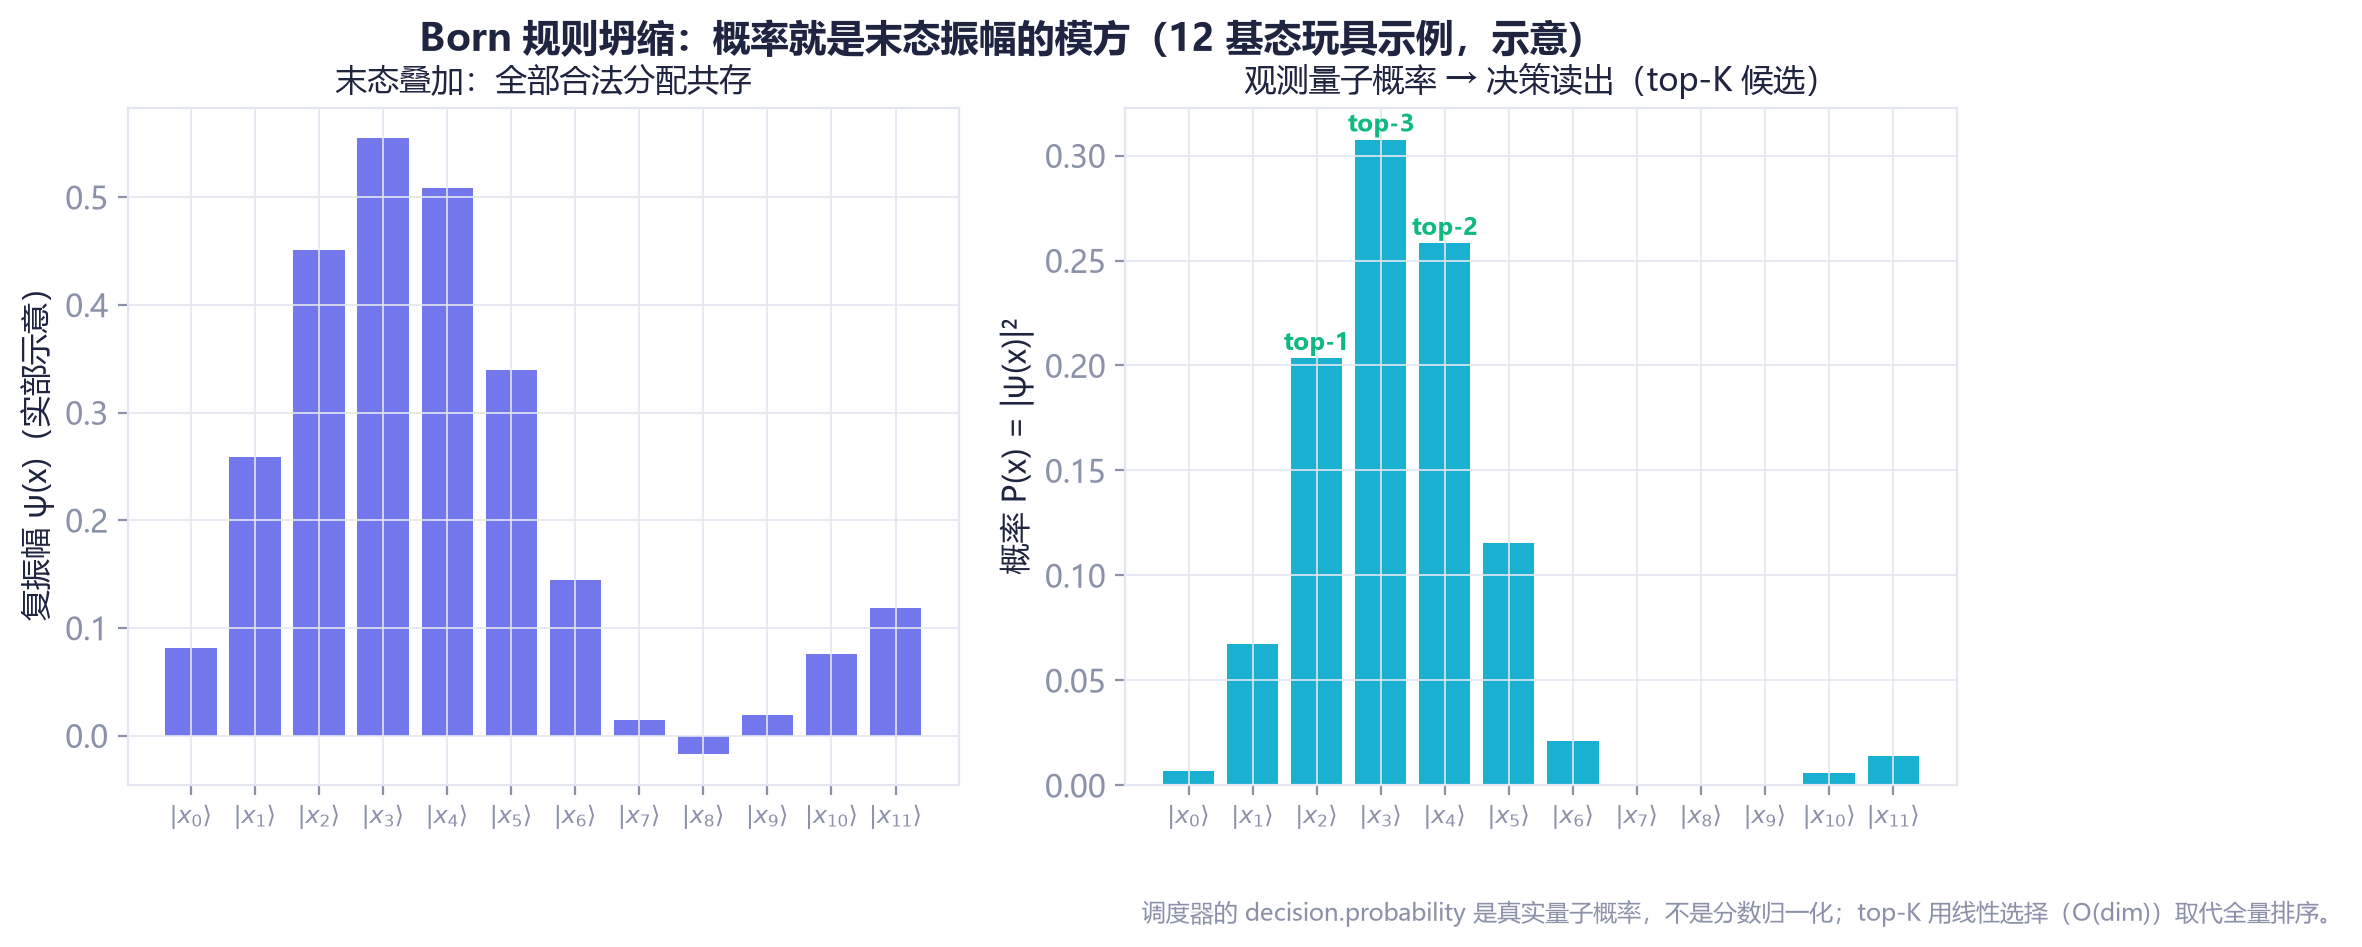
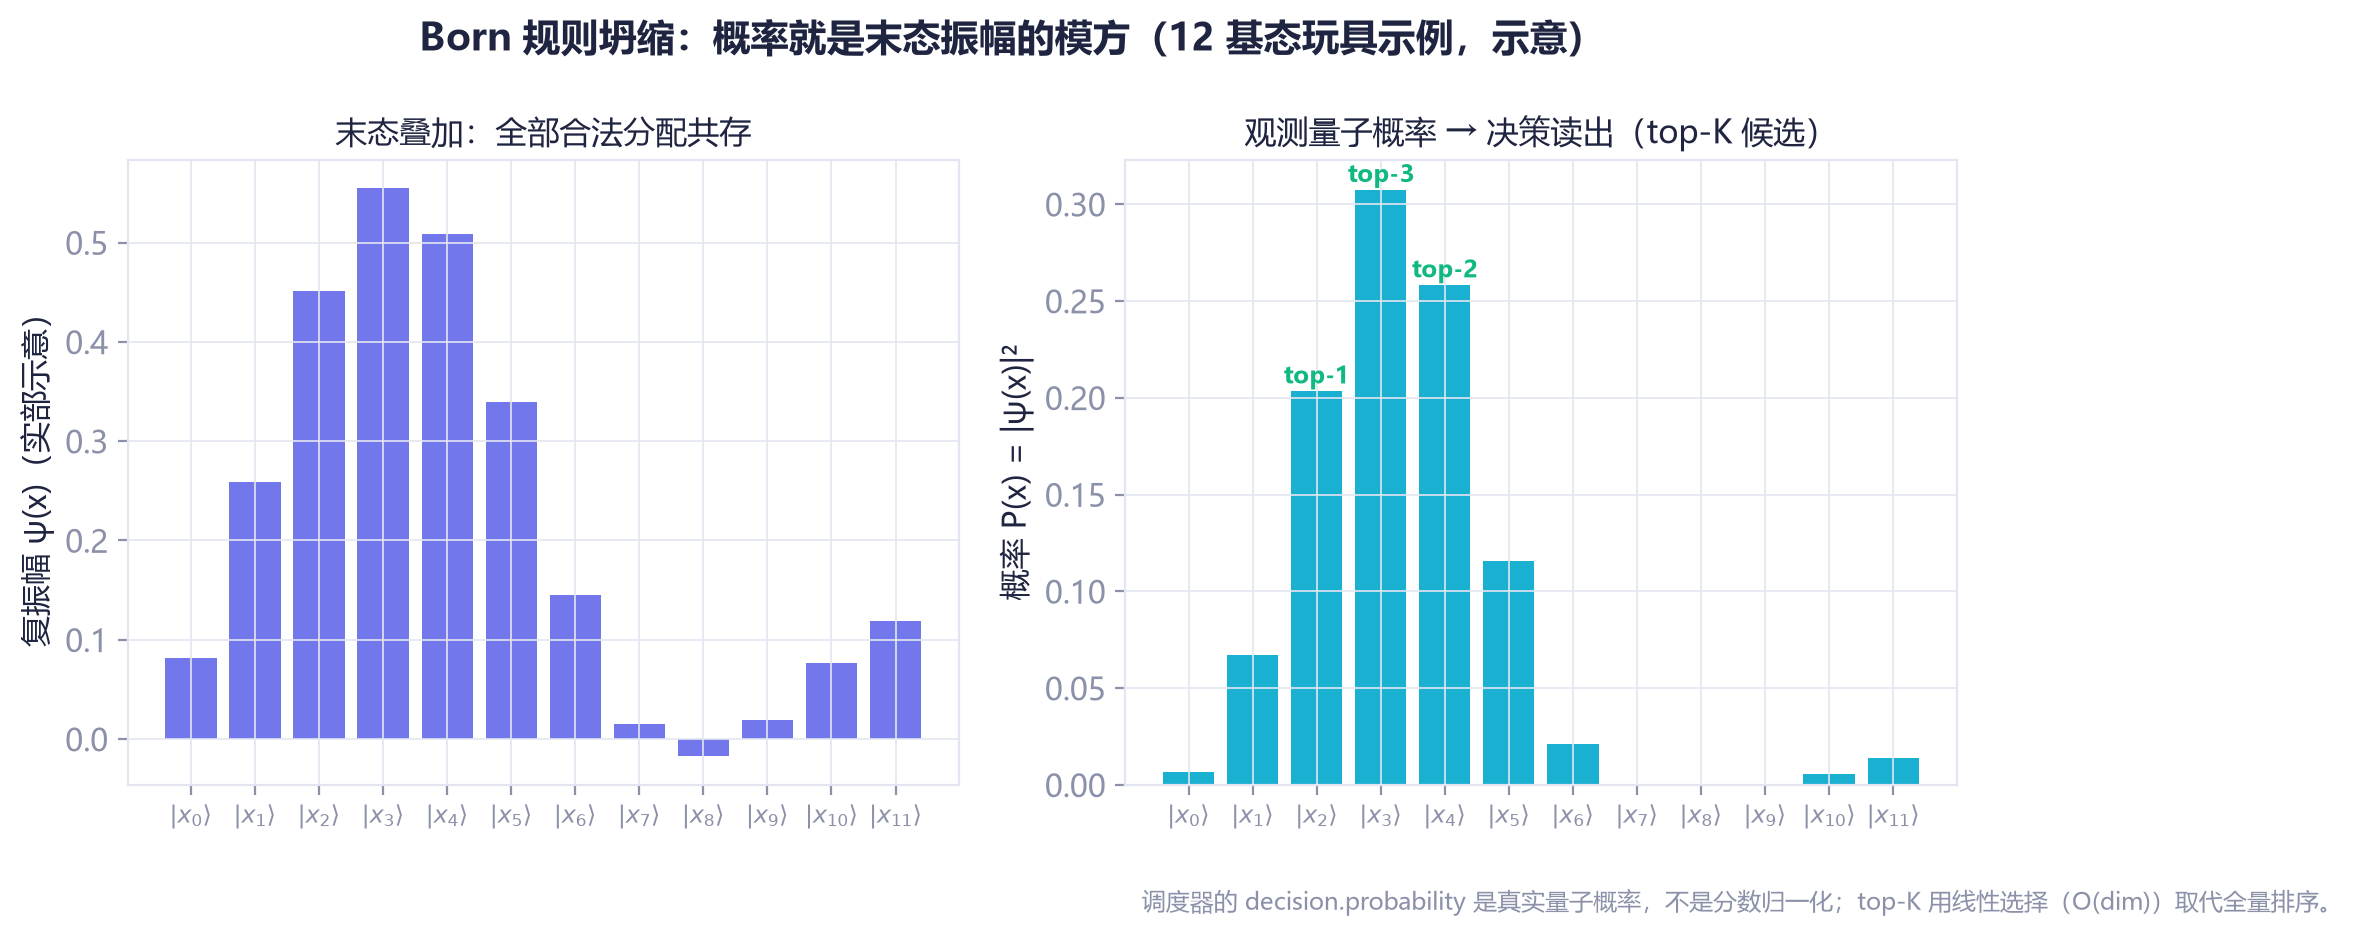
diagram layout R9: machine visual audit built and driven to ZERO — (1) text-overlap detector (base-class window extents so annotation arrows don't fake collisions; pairwise intersection >15% of smaller box) found 17 real collisions the shipped set carried: ladder chart's three annotation systems sha

diff --git a/ds_extracted/ds/docs/diagrams/generate.py b/ds_extracted/ds/docs/diagrams/generate.py
@@ -250,9 +250,9 @@ def fig_subspace():
     for i, (f, s) in enumerate(zip(full, sub)):
         ax.text(i - 0.2, f * 1.6, f"2^{[30, 48, 63, 80][i]}", ha="center", fontsize=9, color=RED)
         ax.text(i + 0.2, s * 1.6, f"{s:,}", ha="center", fontsize=8.6, color=INDIGO, rotation=0)
-    ax.annotate("$2^{80}\\approx1.2\\times10^{24}$ 维\n≈ 10¹⁵ TB 内存（不可行）", xy=(3 - 0.2, full[3]), xytext=(1.35, 1e18),
+    ax.annotate("$2^{80}\\approx1.2\\times10^{24}$ 维\n≈ 10¹⁵ TB 内存（不可行）", xy=(3 - 0.2, full[3]), xytext=(1.6, 4e22),
                 fontsize=9.5, color=RED, arrowprops=dict(arrowstyle="->", color=RED))
-    ax.annotate("1,814,400 维 ≈ 150 MB\n42 秒端到端精确解（实测）", xy=(3 + 0.2, sub[3]), xytext=(2.1, 3e2),
+    ax.annotate("1,814,400 维 ≈ 150 MB\n42 秒端到端精确解（实测）", xy=(3 + 0.05, sub[3] * 0.45), xytext=(1.9, 4e8), ha="center",
                 fontsize=9.5, color=INDIGO, arrowprops=dict(arrowstyle="->", color=INDIGO))
     ax.legend(loc="upper left", frameon=False)
     ax.text(0.01, -0.16, "P(n,m) = n!/(n−m)!：每任务占一个不同 agent 的所有排列——「每行恰一个 1」的约束直接长在基上，罚项为零。",
@@ -376,6 +376,7 @@ def fig_born():
     labels = [f"$|x_{{{i}}}\\rangle$" for i in xs]
     fig, (a1, a2) = plt.subplots(1, 2, figsize=(11.8, 4.4), gridspec_kw={"width_ratios": [1, 1]})
     fig.suptitle("Born 规则坍缩：概率就是末态振幅的模方（12 基态玩具示例，示意）", fontsize=13.5, fontweight="bold")
+    fig.subplots_adjust(top=0.82)
 
     a1.bar(xs, amp, color=INDIGO, alpha=0.85)
     a1.set_xticks(xs, labels, fontsize=8.5)
@@ -401,15 +402,14 @@ def fig_ladder():
     dims = [720, 20160, 181440, 1814400]
     build = [4, 49, 575, 8700]
     anneal = [9, 296, 2900, 32600]
+    eq = [30, 48, 63, 80]
     x = np.arange(4)
     fig, ax = plt.subplots(figsize=(10.2, 5.8))
     ax.bar(x, dims, 0.5, color=INDIGO, alpha=0.9)
     ax.set_yscale("log")
-    ax.set_xticks(x, [f"{c}\n（{d:,} 维）" for c, d in zip(cases, dims)])
+    ax.set_xticks(x, [f"{c} · 等效 {e} qubit\n（{d:,} 维）" for c, d, e in zip(cases, dims, eq)])
     ax.set_ylabel("子空间维度（对数刻度）")
     ax.set_title("子空间规模阶梯：等效 30→80 量子比特，最优率全程 100%（实测）", fontsize=14, fontweight="bold", pad=12)
-    for i, d in enumerate(dims):
-        ax.text(i, d * 1.25, f"{d:,}", ha="center", fontsize=9, color=INDIGO)
     ax2 = ax.twinx()
     ax2.plot(x, build, "o-", color=AMBER, lw=2, ms=6, label="构建时间")
     ax2.plot(x, anneal, "s-", color=CYAN, lw=2, ms=6, label="退火时间")
@@ -417,11 +417,10 @@ def fig_ladder():
     ax2.set_ylabel("时间（ms，对数刻度）")
     ax2.grid(False)
     for i, (b, an) in enumerate(zip(build, anneal)):
-        ax2.text(i + 0.06, b * 1.3, f"{b}ms" if b < 1000 else f"{b / 1000:g}s", fontsize=8.6, color=AMBER)
-        ax2.text(i + 0.06, an * 1.3, f"{an}ms" if an < 1000 else f"{an / 1000:g}s", fontsize=8.6, color=CYAN)
-    eq = [30, 48, 63, 80]
-    for i, e in enumerate(eq):
-        ax.text(i, dims[i] * 0.45, f"等效 {e} qubit", ha="center", fontsize=8.6, color="white", fontweight="bold")
+        ax2.text(i + 0.06, b * 1.3, f"{b}ms" if b < 1000 else f"{b / 1000:g}s", fontsize=8.6, color=AMBER,
+                 bbox=dict(fc="white", alpha=0.8, ec="none", pad=1.2))
+        ax2.text(i + 0.06, an * 1.3, f"{an}ms" if an < 1000 else f"{an / 1000:g}s", fontsize=8.6, color=CYAN,
+                 bbox=dict(fc="white", alpha=0.8, ec="none", pad=1.2))
     h1, l1 = ax2.get_legend_handles_labels()
     ax2.legend(h1, l1, loc="upper left", frameon=False)
     ax.text(0.01, -0.22, "贪心差距 14.1% / 16.5% / 5.2% / 6.7%；退火最优率四档全部 100.0%（穷举裁判）。时间口径：同机同状态实测，绝对值随热状态浮动。",
@@ -445,10 +444,12 @@ def fig_linear():
         hits = sum(1 for r in lin if r["solver"] == solver and r["hit"])
         ax.plot([lo, hi], [lo, hi], color=GRID, lw=1.2, ls="--", zorder=1)
         ax.scatter([p[0] for p in pts], [p[1] for p in pts], s=46, color=color, alpha=0.85, zorder=3, edgecolor="white", lw=0.6)
+        ax.margins(0.05)
         ax.set_title(f"{label} — {hits}/25 命中最优", fontsize=11.5)
         ax.set_xlabel("穷举枚举最优福利（裁判）")
         ax.set_aspect("equal")
     axes[0].set_ylabel("求解器福利")
+    fig.subplots_adjust(bottom=0.17)
     fig.text(0.5, 0.015, "数据：out/bench/bench-report.json（npm run bench 一键重建，公开种子）；两种独立算法落在同一条对角线上。",
              ha="center", fontsize=9, color=GRAY)
     save(fig, "10-bench-linear.png")
@@ -511,7 +512,7 @@ def fig_parallel():
     for b, t, mm in zip(bars, times, mult):
         ax.text(b.get_x() + b.get_width() / 2, t * 1.18, f"{t}s" + (f"  ({mm})" if mm != 1 else ""), ha="center",
                 fontsize=11, fontweight="bold", color=DEEP)
-    ax.text(0.5, 0.06, "并行＝确定性：worker_threads + SharedArrayBuffer + Atomics 屏障，每条纤维完整归属单线程，"
+    ax.text(0.5, -0.26, "并行＝确定性：worker_threads + SharedArrayBuffer + Atomics 屏障，每条纤维完整归属单线程，"
                        "与串行路径共享同一份内核源码——结果逐位一致（测试逐位断言钉死）",
             transform=ax.transAxes, ha="center", fontsize=9.3, color=GRAY,
             bbox=dict(boxstyle="round,pad=0.45", fc=LIGHT2, ec=GRID))
@@ -666,6 +667,7 @@ def fig_hotpath():
     colors = [GRAY, INDIGO, CYAN, AMBER]
     bars = ax.bar(names, vals, 0.52, color=colors, alpha=0.92)
     ax.set_yscale("log")
+    ax.set_ylim(1e3, 3e6)
     ax.set_ylabel("吞吐（ops/s · msgs/s，对数刻度）")
     ax.set_title("平台热路径性能（经典 hybrid 模式，npm run performance 一键复现）", fontsize=13.5, fontweight="bold", pad=12)
     for b, v, m in zip(bars, vals, mult):
@@ -697,8 +699,8 @@ def fig_timeline():
     for x, v, desc, side in marks:
         ax.add_patch(Circle((x, 5), 0.14, fc=INDIGO, ec="white", lw=1.5, zorder=4))
         y = 6.3 if side > 0 else 2.5
-        ax.plot([x, x], [5, y - 0.65 if side > 0 else y + 1.35], color=GRID, lw=1.1, zorder=2)
-        ax.text(x, y + 0.75 if side > 0 else y + 1.25, v, ha="center", fontsize=10.5, fontweight="bold", color=INDIGO)
+        ax.plot([x, x], [5, y - 0.65 if side > 0 else y + 1.75], color=GRID, lw=1.1, zorder=2)
+        ax.text(x, y + 0.75 if side > 0 else y + 1.6, v, ha="center", fontsize=10.5, fontweight="bold", color=INDIGO)
         ax.text(x, y - 0.15 if side > 0 else y, desc, ha="center", fontsize=8.2, color=DEEP, va="top" if side > 0 else "bottom", linespacing=1.5)
     save(fig, "18-timeline.png")
 
